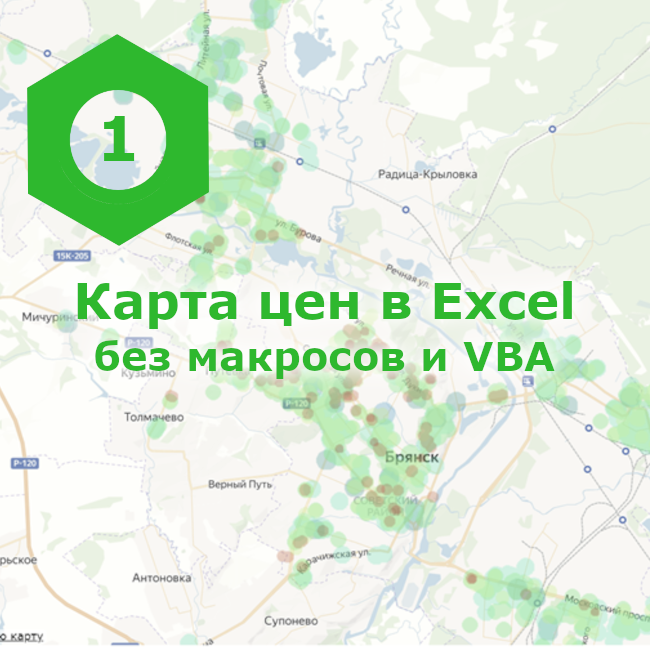
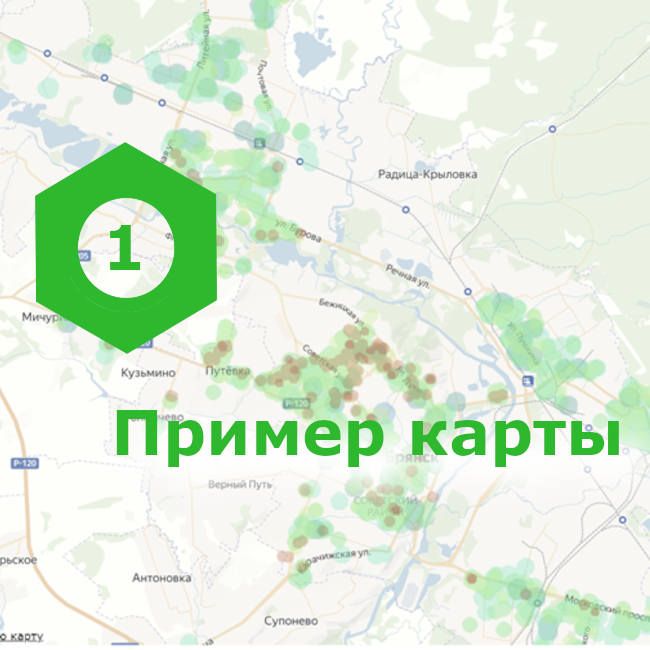
Replacing the main image

Changed region(s): [[0.0308, 0.0308, 0.8923, 0.6154], [0.1538, 0.6154, 1.0, 0.7692], [0.3077, 0.7385, 0.4, 0.7692]]

diff --git a/src/pages/blog/manual-1-simple-map-and-data-clearing.md b/src/pages/blog/manual-1-simple-map-and-data-clearing.md
@@ -1,6 +1,6 @@
 ---
-title: Как сделать тепловую карту без макросов и VBA 
-subtitle: Для цен на недвижимость в Excel
+title: Как сделать тепловую карту цен на недвижимость 
+subtitle: Без макросов и VBA в Excel
 date: '2022-10-20'
 excerpt: Строим карту цен в Excel
 image_alt: Парсинг Авито и ЦИАН для тепловой карты цен
@@ -17,8 +17,6 @@ image: images/habr-1-simple-map-and-data-clearing.png
 Считается, что Data Mining — это магическое снадобье из SQL, Python, Power BI и других волшебных компонент. Мало кто знает, что при правильном подходе с Data Mining может совладать офисный планктон с помощью одного лишь Excel.
 
 Если вы абсолютно далеки от Data Mining, но хотите причаститься его таинств, это руководство в картинках по шагам сделано для вас. Особенно полезно тем, кто никогда бы даже не подумал сделать подобное самостоятельно.
-
-Если вы владеете специальными инструментами для работы с данными, то будет интересно узнать ваше мнение о решениях без "рокет сайнс" (как о явлении в целом, так и о данном кейсе).
 
 ![Тепловая карта цен в Excel](https://habrastorage.org/r/w1560/getpro/habr/upload_files/b33/d3e/3aa/b33d3e3aab8af63a3695549607ec0c70.png "Тепловая карта цен в Excel")
 
